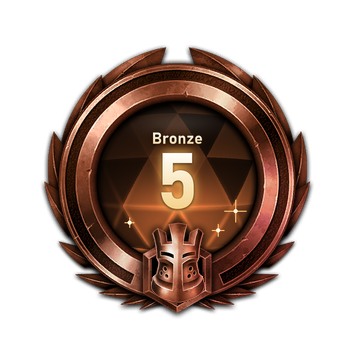
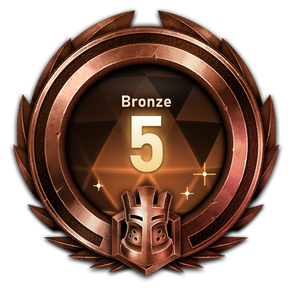
Rank badge update

diff --git a/resources/js/components/RealRankBadge.vue b/resources/js/components/RealRankBadge.vue
@@ -9,7 +9,8 @@
 </template>
 
 <script>
-// Image widths in public/images/ranks: league badges are 350 wide, Master 380, Grandmaster 420, all at the game's scale
+// Image widths in public/images/ranks: league badges are 292 wide (cropped from the game's 350), Master 380, Grandmaster 420,
+// all at the game's scale
 const IMAGE_WIDTHS = { master: 380, grandmaster: 420 };
 
 export default {
@@ -48,7 +49,7 @@ export default {
       return rank.league.charAt(0).toUpperCase() + rank.league.slice(1) + ' ' + rank.division;
     },
     badgeWidth(){
-      return Math.round(this.width * (IMAGE_WIDTHS[this.rank.league] || 350) / 350);
+      return Math.round(this.width * (IMAGE_WIDTHS[this.rank.league] || 292) / 292);
     },
     // The ladder number sits between the "Grand Master" label and the crown's tip.
     // Longer numbers get a smaller font so "#999" still fits inside the disc (about half the badge's width).
